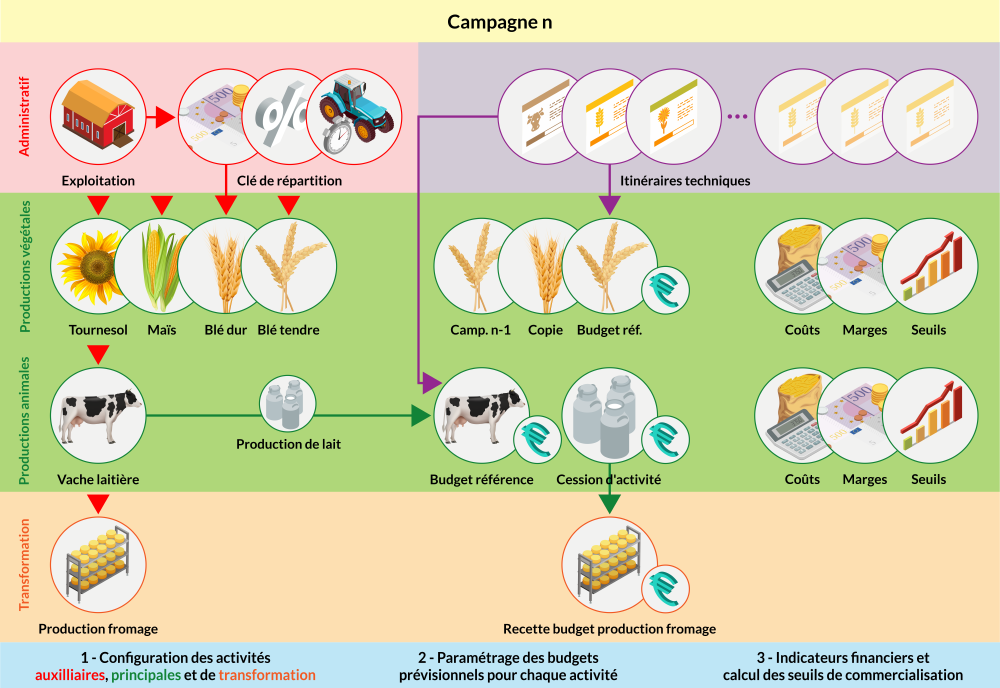
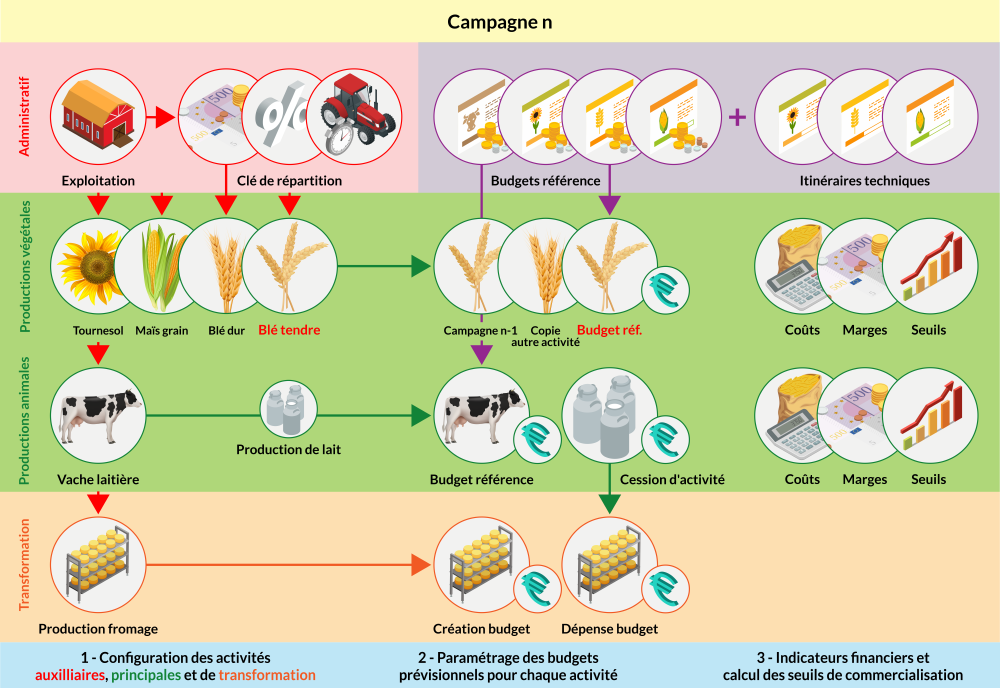
Màj Performance

diff --git a/content/fr/performance.html b/content/fr/performance.html
@@ -363,7 +363,7 @@
                   <img src="../images/commun/circle.svg" alt="Puce" height="15">
                </div>
                <div class="divTableCellPlan">
-                  Configurez vos activités&nbsp;auxiliaires, principales &#40;productions végétales, animales, viticoles&#41;, de transformation, de vinification et de maintenance.
+                  Configurez vos activités&nbsp;auxiliaires, principales &#40;productions végétales, animales, viticoles&#41;, de transformation, de vinification et de maintenance&nbsp;;
                </div>
             </div>
 			<div class="divTableRow">
@@ -371,12 +371,33 @@
                   <img src="../images/commun/circle.svg" alt="Puce" height="15">
                </div>
                <div class="divTableCellPlan">
-                  Définissez et ajustez les budgets prévisionnels de chaque activité principale ou de transformation ouverte durant la campagne en cours.
+                  Définissez et ajustez les budgets prévisionnels de chaque activité principale ou de transformation ouverte durant la campagne en cours&nbsp;;
+               </div>
+            </div>
+			<div class="divTableRow">
+               <div class="divTableCellPlan">
+                  <img src="../images/commun/circle.svg" alt="Puce" height="15">
+               </div>
+               <div class="divTableCellPlan">
+                  Visualisez vos indicateurs financiers et calculez les seuils de commercialisation pour chaque activité principale.
                </div>
             </div>
          </div>
       </div>
-	  <p align="center" class="marge aerateur-haut aerateur-bas"><img src="../images/performance/schema-perf.png" class="contour-img" alt="Schéma fonctionnement" data-action="zoom" /></p>
+	  <div class="affichage-large"></div>
+      <div class="affichage-mobile">
+         <p align="center">
+            <img src="../images/commun/scroll.svg" alt="Scroll" height="40" class="">
+            <br />
+            Glissez pour parcourir le schéma
+         </p>
+      </div>
+      <div class="scroll marge">
+         <div class="tableau">
+            <p align="center" class="aerateur-haut"><img src="../images/performance/schema-perf.png" class="contour-img" alt="Schéma fonctionnement" data-action="zoom" /></p>
+         </div>
+      </div>
+	  <p align="center" class="texte legende">Exemple de gestion des activités et des budgets dans <strong>Eky</strong>agri</p>
 	  <h6>Guide de prise en main • Performance • Paramétrage des activités</h6>
       <a class="slice-process" id="activites"></a>
 	  <h2 class="texte aerateur">b - Paramétrage des activités</h2>
@@ -935,7 +956,8 @@
 		 <p class="max-img-process">
             <img src="../images/performance/budget-princip6.png" class="contour-img" alt="Cession d'activité" data-action="zoom" />
          </p>
-		 <p>Notez qu'il est possible d'enchaîner successivement plusieurs cessions entre des activités ouvertes comme par exemple <strong>"Luzerne" &#62; "Vache laitière" &#62; "Transformation"</strong> &#40;production de fromage&#41;.</p>
+		 <p>Notez qu'il est possible d'enchaîner successivement plusieurs cessions entre des activités ouvertes comme par exemple <strong>"Luzerne" &#62; "Vache laitière" &#62; "Production fromage"</strong> &#40;Transformation&#41;&nbsp;:</p>
+         <p align="center"><img src="../images/performance/schema-cession.png" class="contour-img" alt="Schéma cession" data-action="zoom" /></p>
       </div>
 	  <br />
 	  <div class="floating-box process">

diff --git a/content/fr/demarrage.html b/content/fr/demarrage.html
@@ -24,7 +24,7 @@
          </div>
       </div>
       <h1 align="center" class="texte majuscule aerateur-haut aerateur-bas">Guide de prise en main</h1>
-      <p class="texte aerateur-haut aerateur-bas">Ce guide a pour but d'aider l'utilisateur à configurer correctement les applications développées par Ekylibre pour gérer son exploitation agricole ou viticole. Il rassemble les informations et les procédures essentielles à connaître pour maîtriser les fonctionnalités disponibles dans les différents modules de la solution. Cette documentation en ligne a été mise à jour le 18 mai 2022.</p>
+      <p class="texte aerateur-haut aerateur-bas">Ce guide a pour but d'aider l'utilisateur à configurer correctement les applications développées par Ekylibre pour gérer son exploitation agricole ou viticole. Il rassemble les informations et les procédures essentielles à connaître pour maîtriser les fonctionnalités disponibles dans les différents modules de la solution. Cette documentation en ligne a été mise à jour le 19 mai 2022.</p>
       <div class="divTableAccueil" style="margin: 0 auto;">
          <div class="divTableBodyAccueil">
             <div class="divTableRowAccueil">
